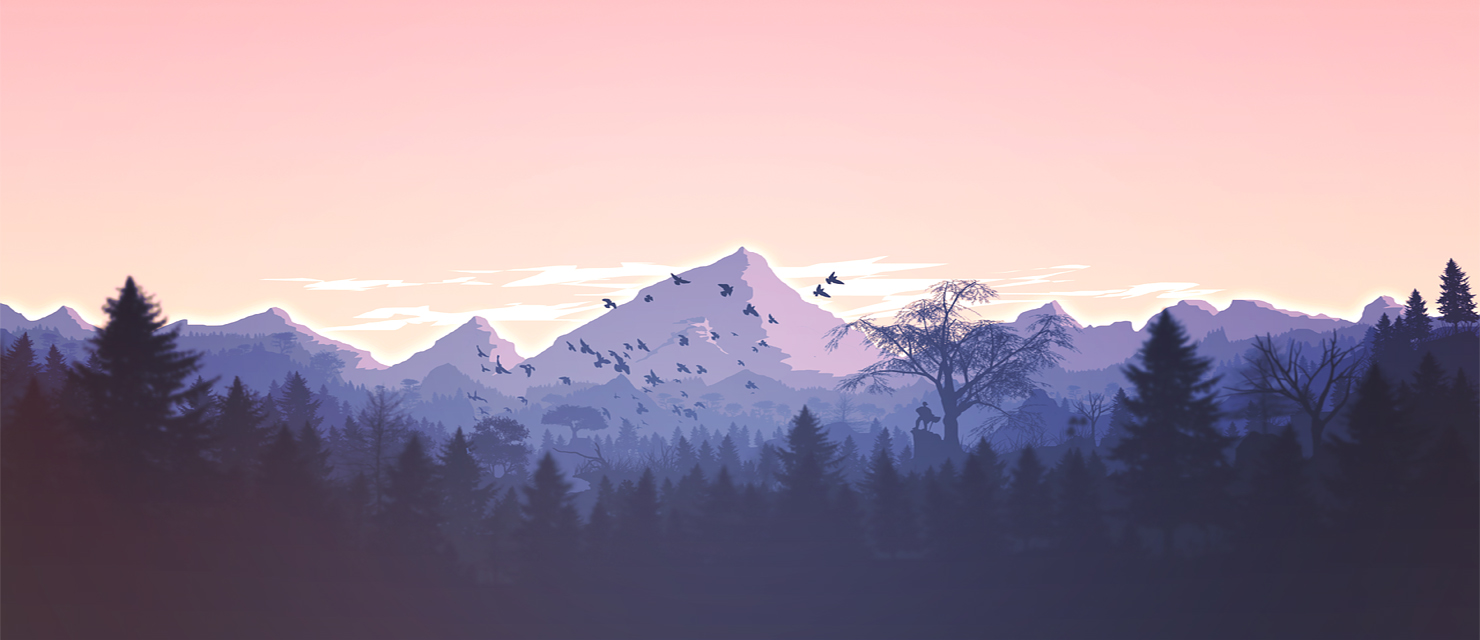
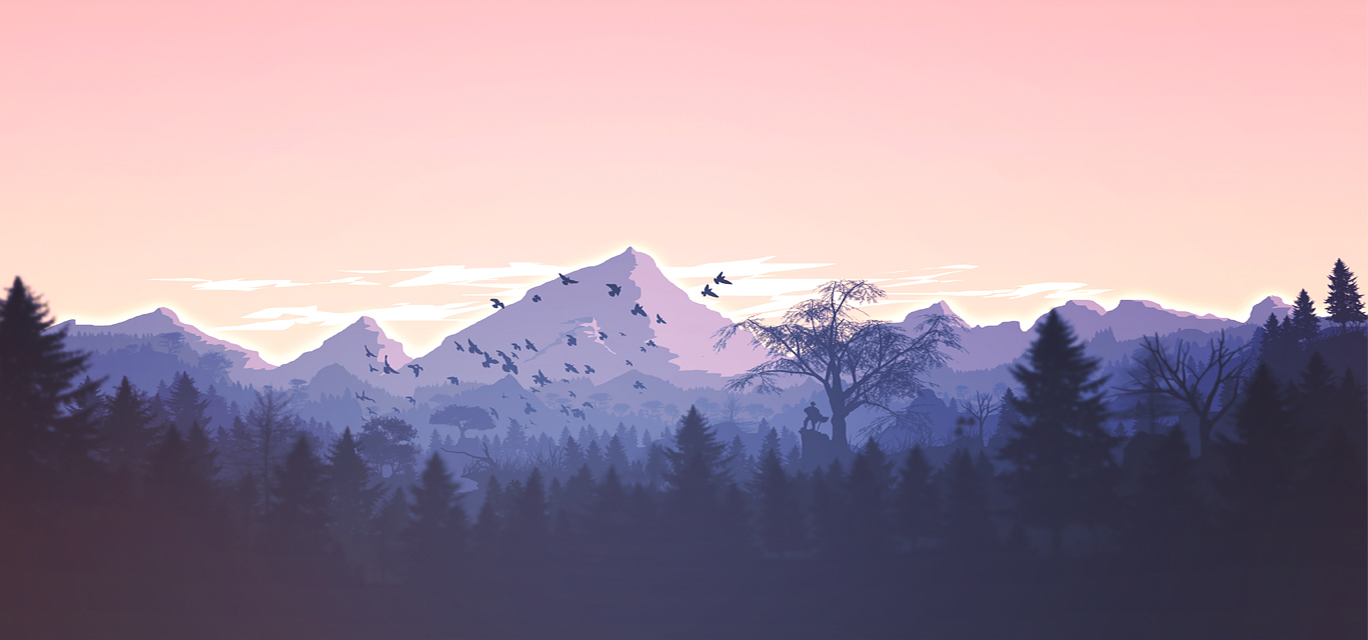
alterações gerais
muita coisa

Changed region(s): [[0.0, 0.375, 1.0, 0.8125], [0.0614, 0.6875, 0.0921, 0.7188]]

diff --git a/src/Pages/Sobre/Sobre.js b/src/Pages/Sobre/Sobre.js
@@ -1,7 +1,7 @@
 import "./sobre.css";
 import React from "react";
 import { Row, Container, Col } from "reactstrap";
-import { GithubOutlined } from "@ant-design/icons";
+import { GithubOutlined, LinkedinOutlined } from "@ant-design/icons";
 
 export default function sobre(props) {
   return (
@@ -54,6 +54,14 @@ export default function sobre(props) {
                 concretização da aparência idealizada e definida em um protótipo do projeto – qual prestou
                 auxílio à criação.
               </div>
+              <div id="redes_sobreAlexandre">
+                <a className="a_sobre" href="https://github.com/Alexandre2DS" target="_blank">
+                  <GithubOutlined style={{paddingRight:"12px"}}/>
+                </a>
+                <a className="a_sobre" href="" target="_blank">
+                  <LinkedinOutlined />
+                </a> 
+                </div>
             </div>
           </Col>
           <br />
@@ -72,6 +80,14 @@ export default function sobre(props) {
                 objetivos da ideia executada: compartilhar informações necessárias para a disseminação da Educação
                 Ambiental e reunir pontos de descarte de lixo próximos à região.
               </div>
+              <div className="redes_cardSobre">
+                <a className="a_sobre" href="https://github.com/luaaan" target="_blank">
+                  <GithubOutlined style={{paddingRight:"12px"}}/>
+                </a>
+                <a className="a_sobre" href="" target="_blank">
+                  <LinkedinOutlined />
+                </a> 
+                </div>
             </div>
           </Col>
           <br />
@@ -87,8 +103,16 @@ export default function sobre(props) {
                 de programação React para o back-end e programou grande parte do Mapa, no qual foi portado 
                 pelo Leaflet na linguagem JavaScript. Com isso o membro da equipe desenvolveu e auxiliou os 
                 demais participantes em diversas amplitudes do projeto. Fabio também foi responsável por 
-                elaborar o GitHub do ReCircle, no qual é formado por um código aberto e de fácil acesso. 
-                  </div>
+                elaborar o GitHub do ReCircle, no qual é formado por um código aberto e de fácil acesso.<br/>
+                </div>
+                <div className="redes_cardSobre">
+                <a className="a_sobre" href="https://github.com/FabioPassos10" target="_blank">
+                  <GithubOutlined style={{paddingRight:"12px"}}/>
+                </a>
+                <a className="a_sobre" href="" target="_blank">
+                  <LinkedinOutlined />
+                </a> 
+                </div>
             </div>
           </Col>
         </Row>
@@ -110,7 +134,15 @@ export default function sobre(props) {
                 do site e foi responsável, posteriormente, por auxiliar na criação e desenvolvimentos dos demais recursos 
                 funcionais e visuais do projeto. A aba de conteúdo sobre cada membro do projeto juntamente com a localização e reconhecimento 
                 de todos os pontos de descarte da região foi elaborada por ele. 
-                  </div>
+              </div>
+              <div className="redes_cardSobre">
+                <a className="a_sobre" href="https://github.com/PudimTI" target="_blank">
+                  <GithubOutlined style={{paddingRight:"12px"}}/>
+                </a>
+                <a className="a_sobre" href="" target="_blank">
+                  <LinkedinOutlined />
+                </a> 
+              </div>
             </div>
             {/* */}
           </Col>
@@ -125,10 +157,18 @@ export default function sobre(props) {
               <h4>Luan Araujo 👨🔧</h4>
                 <br/>
                 Luan auxiliou na programação do projeto, solucionando eventuais problemas no qual se deparamos 
-                no decorrer do desenvolvimento. Atuou na criação do Jason interno do site, tal qual funciona 
-                como o banco de dados interno do projeto. O membro também foi responsável por gerenciar os 
+                no decorrer do desenvolvimento. Atuou na criação do Json interno do site, tal qual tem a funcionalidade de
+                guardar de forma fixa os dados. O membro também foi responsável por gerenciar os 
                 dados do mapa, realizando um filtro funcional com a biblioteca do Leafle. 
                   </div>
+                  <div className="redes_sobreLuanLuiz">
+                <a className="a_sobre" href="https://github.com/luaaan" target="_blank">
+                  <GithubOutlined style={{paddingRight:"12px"}}/>
+                </a>
+                <a className="a_sobre" href="" target="_blank">
+                  <LinkedinOutlined />
+                </a> 
+                </div>
             </div>
           </Col>
           <br />
@@ -145,6 +185,14 @@ export default function sobre(props) {
               registro das etapas do processo de concepção do produto final almejado, bem como, exerceu 
               papel encarregado de pesquisas para ampliação dos conhecimentos necessários ao time. 
                   </div>
+                  <div className="redes_sobreLuanLuiz">
+                <a className="a_sobre" href="https://github.com/Gust4voPereira" target="_blank">
+                  <GithubOutlined style={{paddingRight:"12px"}}/>
+                </a>
+                <a className="a_sobre" href="" target="_blank">
+                  <LinkedinOutlined />
+                </a> 
+                </div>
             </div>
           </Col>
         </Row>

diff --git a/src/Pages/Dicas/Dicas.js b/src/Pages/Dicas/Dicas.js
@@ -20,22 +20,20 @@ export default function Dicas() {
               <Grafico />
             </div>
             <div className="col-xs-5 col-md-5 col-sm-12">
+              <h4>Importância da Reciclagem</h4>
               <p className="text-grafico">
-                Lorem ipsum dolor sit amet consectetur adipisicing elit.
-                Possimus minima dolorem facere optio quam. Aliquam possimus ab
-                qui facere placeat magnam laboriosam quod temporibus iure autem,
-                exercitationem i usto! Laudantium, quod? Lorem ipsum dolor sit
-                amet consectetur adipisicing elit. Possimus minima dolorem
-                facere optio quam. Aliquam possimus ab qui facere placeat magnam
-                laboriosam quod temporibus iure autem, exercitationem i usto!
-                Laudantium, quod? Lorem ipsum dolor sit amet consectetur
-                adipisicing elit. Possimus minima dolorem facere optio quam.
-                Aliquam possimus ab qui facere placeat magnam laboriosam quod
-                temporibus iure autem, exercitationem i usto! Laudantium, quod?
-                Lorem ipsum dolor sit amet consectetur adipisicing elit.
-                Possimus minima dolorem facere optio quam. Aliquam possimus ab
-                qui facere placeat magnam laboriosam quod temporibus iure autem,
-                exercitationem i usto! Laudantium, quod?
+              A reciclagem auxilia na conservação de recursos naturais, reduzindo a extração de novas 
+              matérias-primas, além de proporcionar economia de energia e de gastos com limpeza urbana, 
+              já que também evita a poluição. Tal prática reduz emissões de gases do efeito estufa e, 
+              dessa forma, garante um meio ambiente sustentável.
+              <br/>
+              O processo também funciona como Educação Ambiental a seus praticantes, gera empregos a catadores 
+              e funcionários da coleta seletiva e reduz quantias de lixo enviadas a aterros sanitários.
+              <br/>
+              Devido aos aterros sanitários serem tão densamente compactados, grande parte da degradação que ocorre é 
+              anaeróbia (processo de decomposição da matéria orgânica por bactérias em um meio onde não há a presença 
+              de oxigênio). Processos anaeróbicos geram enorme quantidade de gás metano, um dos principais contribuintes 
+              para o aquecimento global.  
               </p>
             </div>
           </div>

diff --git a/src/Pages/Sobre/sobre.css b/src/Pages/Sobre/sobre.css
@@ -86,3 +86,42 @@
   width: 80%;
   height: 90px;
 }
+
+.a_sobre {
+  font-size: 35pt;
+  color: inherit;
+}
+
+.redes_cardSobre {
+  margin-left: 30%;
+  margin-right: 30%;
+  margin-top: 5%;
+  bottom: 0;
+  display: inline-block;
+  text-align: center; 
+  width: 40%;
+  padding-bottom: 0;
+  margin-bottom: 12px;
+}
+
+#redes_sobreAlexandre {
+  margin-left: 30%;
+  margin-right: 30%;
+  margin-top: 13%;
+  bottom: 0;
+  display: inline-block;
+  text-align: center; 
+  width: 40%;
+  padding-bottom: 0;
+}
+
+.redes_sobreLuanLuiz {
+  margin-left: 30%;
+  margin-right: 30%;
+  margin-top: 24%;
+  bottom: 0;
+  display: inline-block;
+  text-align: center; 
+  width: 40%;
+  padding-bottom: 0;
+}

diff --git a/src/Pages/Home/home.css b/src/Pages/Home/home.css
@@ -9,13 +9,17 @@
   background-color: rgb(160, 158, 158);
   width: 100%;
   height: 1000px;
-  max-height: 50vh;
-  background-image: url(../../assets/hero1.jpg);
-  background-size: 100vw;
+  max-height: 60vh;
+  background-image: url(../../assets/hero6.jpg);
+  background-size: 100%;
   background-attachment: fixed;
   background-repeat: no-repeat;
-  background-size: cover;
-  box-shadow: 0 1em 1em rgba(0, 0, 0, 0.809);
+  background-size: auto;
+  box-shadow: 0px 10px 13px -7px #000000, 5px 5px 15px 5px rgba(0,0,0,0);
+  text-align: center;
+  font-size: 50pt;
+  padding-top: 15%;
+  font-family: cursive;
 }
 /* #DivCMap {
   background-color: rgba(26, 49, 54, 0.966);

diff --git a/src/Components/NavBar.js b/src/Components/NavBar.js
@@ -16,15 +16,15 @@ export default function NavBar() {
         <label className="logo">Recicle</label>
         <ul>
           <li>
-            <a id="aHome" href="/">
+            <a className="classe1" href="/">
               Home
             </a>
           </li>
           <li>
-            <a href="/Dicas">Dicas</a>
+            <a className="classe1" href="/Dicas">Dicas</a>
           </li>
           <li>
-            <a href="/Sobre">Sobre Nós</a>
+            <a className="classe1" href="/Sobre">Sobre Nós</a>
           </li>
         </ul>
         <label id="icon">

diff --git a/src/Components/Styles/navbar.css b/src/Components/Styles/navbar.css
@@ -37,15 +37,16 @@ nav a {
   padding: 7px 10px;
   border-radius: 3px;
 }
-a.active,
-a:hover,
-a.visited {
+a.classe1.active,
+a.classe1:hover,
+a.classe1.visited {
   border-bottom: 4px solid rgb(20, 228, 197) !important;
   text-decoration: underline overline;
   text-decoration: underline;
   color: rgb(0, 255, 170) !important;
   transform: 0.5s;
 }
+
 
 nav #icon {
   color: white;

diff --git a/src/Pages/Home/Home.js b/src/Pages/Home/Home.js
@@ -14,7 +14,7 @@ export default function Home(props) {
   return (
     <>
       <Container id="Hero" fluid={true}>
-        <h1 id="titleHero"> Recicle </h1>
+        Recicle
       </Container>
       <div id="DivCMap">
         <div id="Mapadiv">
